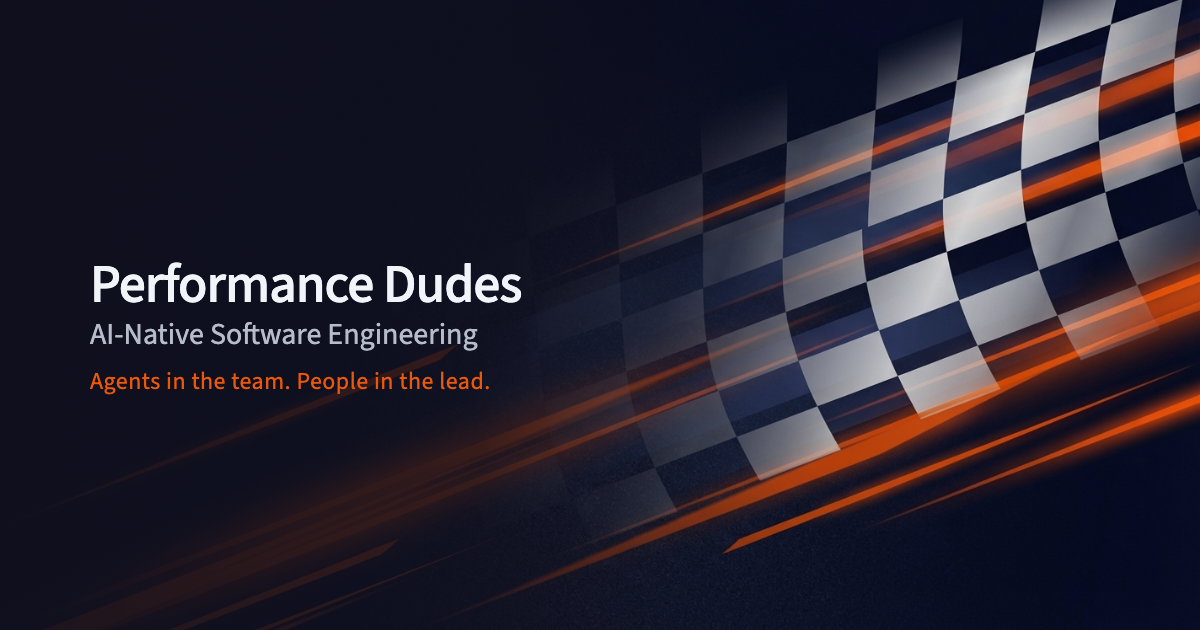
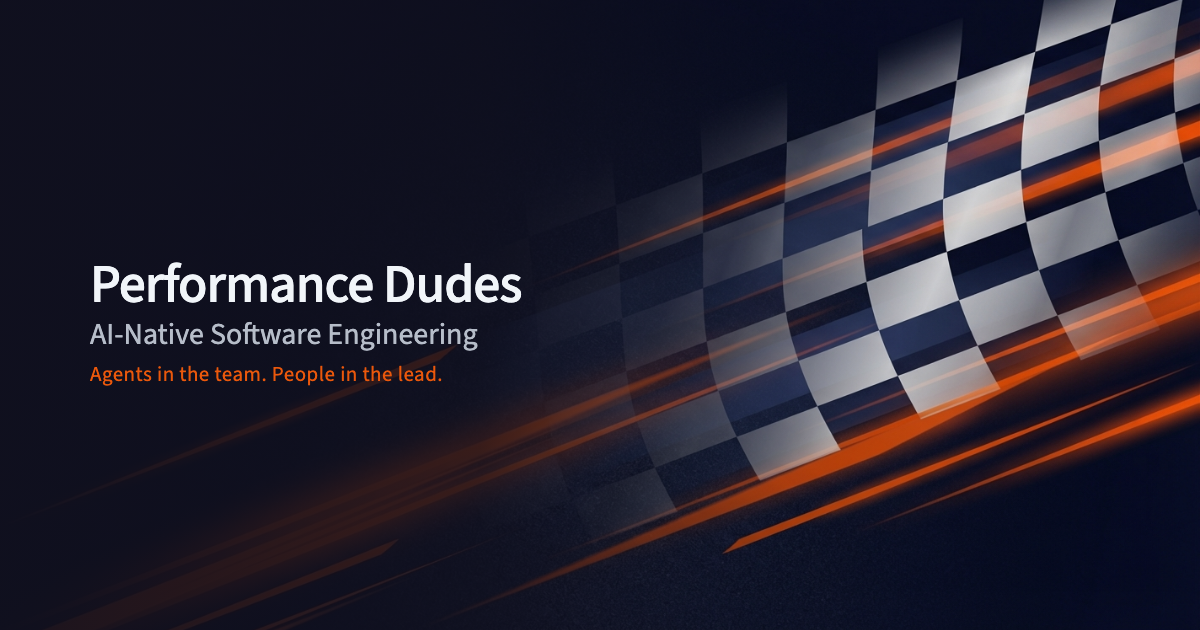
style(og): kompakten Slogan kleiner + näher an den Untertitel
Feinschliff der kompakten Variante: Slogan von 24px auf 21px verkleinert und den
Abstand zwischen Untertitel und Slogan verringert (eyebrow margin-bottom 10 -> 5),
sodass der Textblock enger gestapelt sitzt — näher an der Optik des Originals.

Claude-Session: https://claude.ai/code/session_0145i5EJ38RYKJC6xyr5v5v8

Changed region(s): [[0.0617, 0.573, 0.4008, 0.6333]]

diff --git a/scripts/og/og-template.html b/scripts/og/og-template.html
@@ -55,7 +55,7 @@
         font-family: "Source Sans 3", -apple-system, BlinkMacSystemFont, sans-serif;
         --fs-eyebrow: 18px;
         --fs-title: 54px;
-        --fs-tagline: 24px;
+        --fs-tagline: 21px;
         --ls-title: -1px;
         --mb-eyebrow: 20px;
         --mb-title: 18px;
@@ -127,7 +127,7 @@
       body.compact .title { order: 1; margin-bottom: 0; }
       body.compact .eyebrow {
         order: 2; text-transform: none; letter-spacing: normal; gap: 0;
-        font-size: 30px; color: #b6bdc9; margin-bottom: 10px; margin-top: 0;
+        font-size: 30px; color: #b6bdc9; margin-bottom: 5px; margin-top: 0;
       }
       body.compact .eyebrow .dash { display: none; }
       /* Slogan wie im Original ("Build fast. Enable. Leave."): komplett orange,
